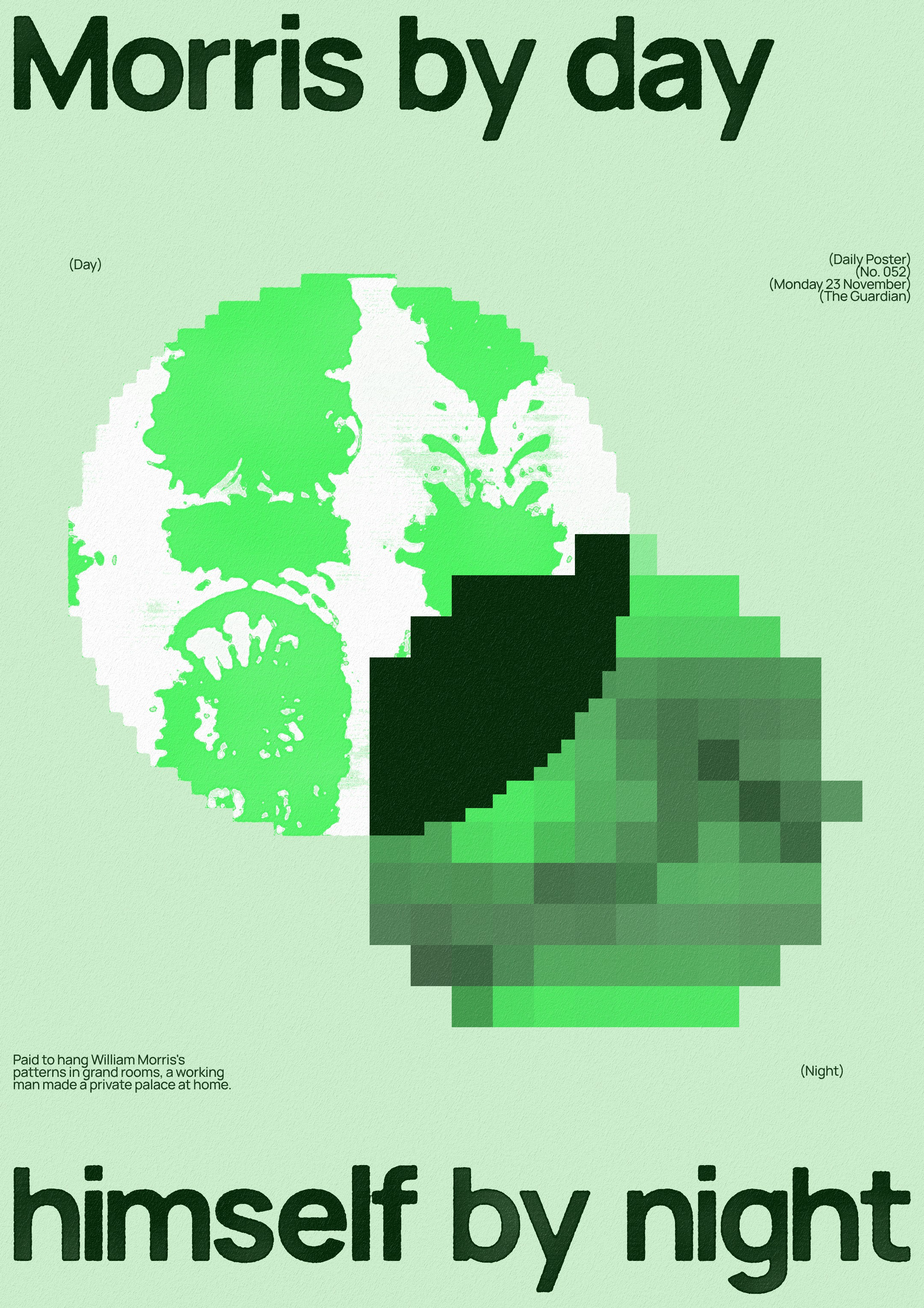
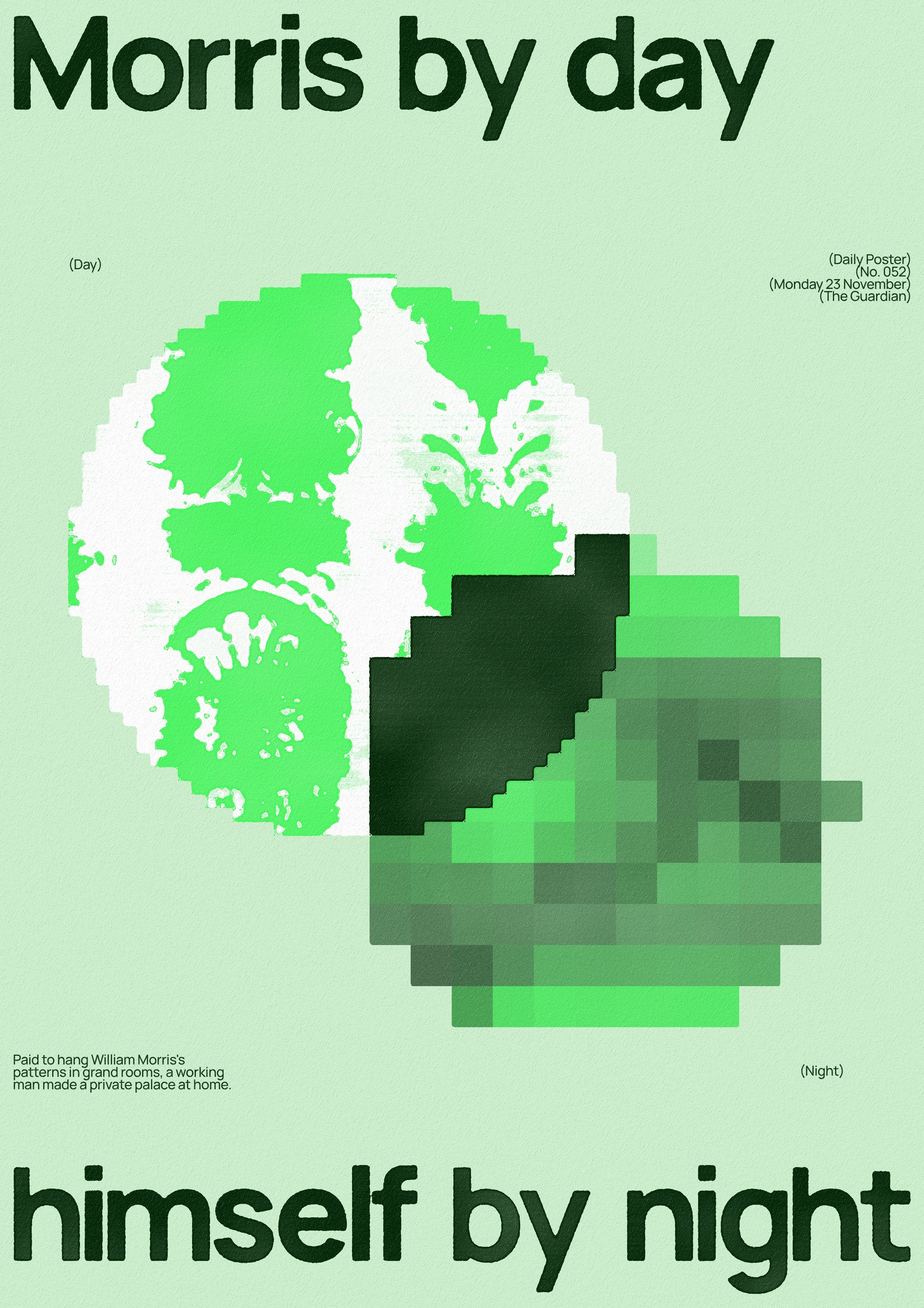
Claude's posters: printed edges on toned/pixelated shapes (printAll shapes); 052 Morris re-rendered
Claude-Session: https://claude.ai/code/session_01TfEQpNo4qtALfvjhWWQD7K

Changed region(s): [[0.4032, 0.4663, 0.6204, 0.6217], [0.5894, 0.4352, 0.6824, 0.5285]]

diff --git a/experiments/claude-posters/lab/lib.js b/experiments/claude-posters/lab/lib.js
@@ -738,8 +738,9 @@ function stock(g, kind = 'uncoated', seedN = 1) {
 // printAll(g, C, o): call after everything except the headline is drawn, then printHead the headline, then stock().
 //   It splits the sheet into flat plates (every pixel snapped to the nearest colour in the colourway C), prints each
 //   plate through the Ink Machine with the process that matches the headline's finish, and lays them back down on
-//   the paper (the background colour) largest first. o.keep: masks left exactly as drawn (smooth images);
-//   o.boxes: rects whose contents are kept but whose edges are printed like everything else.
+//   the paper (the background colour) largest first. o.keep: masks left exactly as drawn (avoid: their edges stay
+//   digital-crisp); o.boxes (rects) and o.shapes (masks, e.g. a pixelated circle): toned contents kept, but their
+//   edges printed like everything else and the ink lightly mottled. Prefer boxes/shapes over keep.
 const SHEET_PROCESS = {
   letterpress: ['letterpress', 0.3, 0.5], 'inked-deboss': ['letterpress', 0.3, 0.5], riso: ['riso', 0.3, 0.5],
   screen: ['screen', 0.3, 0.5], stamp: ['stamp', 0.3, 0.5], bleed: ['riso', 0.55, 0.75], copy: ['copy', 0.4, 0.5],
@@ -771,7 +772,8 @@ function printAll(g, C, o = {}) {
   const hexes = [...new Set(JSON.stringify(C).match(/#[0-9A-Fa-f]{6}/g).map((h) => h.toUpperCase()))];
   const bg = (o.bg ?? C.bg ?? C.paper).toUpperCase(), cols = hexes.map((h) => [1, 3, 5].map((i) => parseInt(h.slice(i, i + 2), 16)));
   const src = g.canvas, w = src.width, h = src.height, sd = src.getContext('2d').getImageData(0, 0, w, h).data;
-  const keep = union(...(o.keep || []), ...(o.boxes || []).map(rectMask)), kd = keep.g.getImageData(0, 0, w, h).data;
+  const framed = [...(o.boxes || []).map(rectMask), ...(o.shapes || [])];   // kept inside, edges printed
+  const keep = union(...(o.keep || []), ...framed), kd = keep.g.getImageData(0, 0, w, h).data;
   // snap every pixel to its nearest colour → one plate per colour
   const lab = new Uint8Array(w * h), count = new Array(hexes.length).fill(0);
   for (let p = 0; p < w * h; p++) {
@@ -799,10 +801,11 @@ function printAll(g, C, o = {}) {
   const thinOrig = canvas(); draw(thinOrig.g, src); draw(thinOrig.g, cut(thinD, keep), 'destination-in');
   draw(outC.g, lightInk(thinOrig, 0.15, seedN + 77));
   // smooth images stay as drawn; boxes get printed edges
-  draw(outC.g, cut(kept, union(...(o.boxes || []).map(rectMask))));
-  for (const [i, r] of (o.boxes || []).entries()) {
-    const edge = preset === 'crisp' ? rectMask(r) : IM.print(rectMask(r), preset, { wear, spread, seed: seedN + 80 + i });
-    const b = canvas(); draw(b.g, kept); draw(b.g, rectMask(r), 'destination-in'); draw(b.g, edge, 'destination-in'); draw(outC.g, b);
+  draw(outC.g, cut(kept, union(...framed)));
+  for (const [i, fm] of framed.entries()) {
+    const edge = preset === 'crisp' ? fm : IM.print(fm, preset, { wear, spread, seed: seedN + 80 + i });
+    const b = canvas(); draw(b.g, kept); draw(b.g, fm, 'destination-in'); draw(b.g, edge, 'destination-in');
+    draw(outC.g, preset === 'crisp' ? b : lightInk(b, 0.1, seedN + 90 + i));
   }
   g.save(); g.setTransform(1, 0, 0, 1, 0, 0); g.globalCompositeOperation = 'source-over'; g.drawImage(outC, 0, 0); g.restore();
 }

diff --git a/experiments/claude-posters/lab/concepts/052-c2.tpl.js b/experiments/claude-posters/lab/concepts/052-c2.tpl.js
@@ -38,7 +38,7 @@ window.POSTER = async () => {
   block(g, ['(Day)'], day.x - day.r, day.y - day.r - 10, { ...t, anchor: 'bottom' });
   block(g, ['(Night)'], night.x + night.r, night.y + night.r + 24, { ...t, align: 'right' });
   // round 14 (re-rendered 24 Nov): the whole sheet printed like the headline, then the headline, then the paper
-  printAll(g, C, { style: 'letterpress', keep: [nm] });   // the night circle keeps its toned pixels
+  printAll(g, C, { style: 'letterpress', shapes: [cut(nm, dm)] });   // the night circle keeps its toned pixels; its edges are printed
   draw(g, press(head, C.type, HS.ink.preset, { ...HS.ink, seed: 52 }));
   draw(g, IM.paper(0.45, 52), 'source-over', 0.6); grain(g, 0.07, 0.5);
   return out;

diff --git a/experiments/claude-posters/STYLE.md b/experiments/claude-posters/STYLE.md
@@ -45,6 +45,8 @@ Round 1 (Nos. 049–052, 23 Nov 2026) feedback, turned into rules. These overrid
   their tone but get printed edges. In the toolkit: draw everything except the headline, then
   `printAll(g, C, { keep, boxes })`, then `printHead`, then `stock`. It splits the sheet into its flat colour plates
   and prints each with the process that matches the headline's finish (`sheetProcess`).
+- Nothing stays digital-crisp on an inked sheet (Ben on 052 Morris, 24 Nov): a toned or pixelated shape keeps its
+  tones but its outline is printed too (`printAll`'s `boxes` and `shapes`, not `keep`).
 - **Words in the corners.** When a headline sits in blocks pinned to both margins and a line of two or more words
   falls a little short of the measure (BEFORE SUNRISE under CATCH MERCURY), fake it: open the word spaces, never the
   letters, so the line runs margin to margin and the outer words sit exactly in the corners (`spreadWords`). Four
